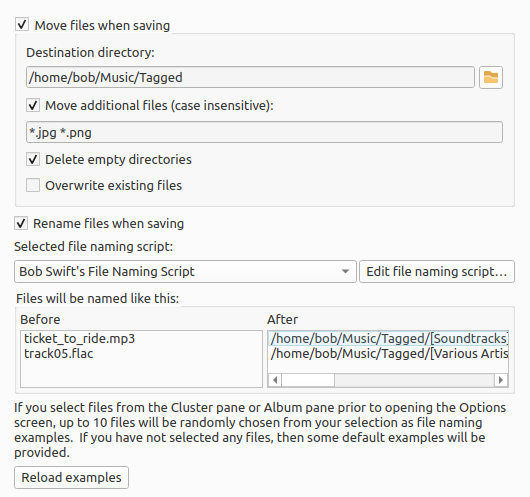
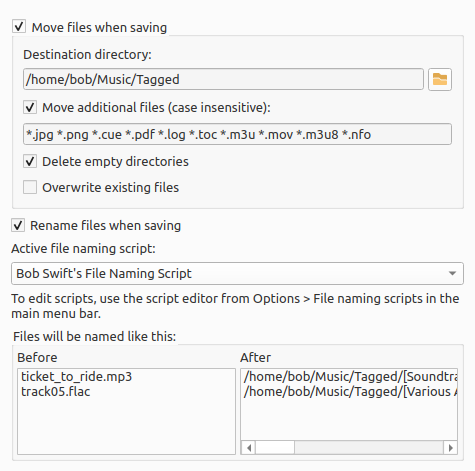
Restructure options pages to match revisions in Picard

Changed region(s): [[0.0, 0.0297, 0.9726, 1.0], [0.6484, 0.535, 0.9726, 0.5945]]

diff --git a/config/options_matching.rst b/config/options_matching.rst
@@ -16,22 +16,34 @@ It is recommended for most users to leave these settings at their default values
       :width: 75%
       :align: center
 
-**Minimal similarity for file lookups**
+**Minimum similarity**
 
-   The higher the percentage value, the more similar an individual file's metadata must be to the metadata from MusicBrainz for it to be matched to a release on the right-hand side.
+   This setting determines the minimum match between a cluster and a release on MusicBrainz for the release to be considered and presented as a possible match. Matches below this threshhold will be ignored.
 
-   This setting is used when you do a lookup on individual files. The files' metadata is compared to the recordings found on MusicBrainz. If the similarity is below the threshold the recording is ignored completely.
+**Minimum margin between best and second-best match**
 
-**Minimal similarity for cluster lookups**
-
-   The higher the percentage value, the more similar a cluster of files from the left-hand pane must be to a MusicBrainz release for the entire cluster to be matched to a release on the right-hand side.
+   This setting determines the similarity difference to prefer one match over another. When Picard matches a file to tracks, it scores each candidate track by similarity. If the gap between the top two or more scores is less than this margin, the match is flagged as ambiguous, because the gap isn't enough to be certain which one is the best. In this case, you must verify the track selection.
 
 **Minimal similarity for matching files to tracks**
 
-   The higher the percentage value, the more similar an individual file's metadata must be to the metadata from MusicBrainz for it to be matched to a release on the right-hand side.
+   The higher the percentage value, the more similar an individual file's metadata must be to the metadata from MusicBrainz for it to be matched to a track on a release in the Album pane.
 
-   This setting is used when a file is assigned to a release and Picard needs to decide which track to assign it to. This happens on cluster lookup after the release has been chosen, or if you manually drag files onto a loaded release (as opposed to dragging it onto a track directly). If none of the tracks gives a match above the threshold the file is moved into an "unmatched files" section on that release.
+   This setting is used when a file is assigned to a release and Picard needs to decide which track to which it is assigned. This happens on cluster lookup after the release has been chosen, or if you manually drag files onto a loaded release (as opposed to dragging it onto a track directly). If none of the tracks gives a match above the threshold the file is moved into an "unmatched files" section on that release.
 
-If you have absolutely no metadata in your current files, and you are using "Scan" to match tracks, you may find that you need to lower the value of "Minimal similarity for matching files to tracks" in order for Picard to match the files within a release. Otherwise you may find that Picard matches the track to a release but then is not sure which track is correct; and leaves it in an "unmatched files" group within that release.
+   If you have absolutely no metadata in your current files, and you are using "Scan" to match tracks, you may find that you need to lower the value of "Minimal similarity for matching files to tracks" in order for Picard to match the files within a release. Otherwise you may find that Picard matches the track to a release but then is not sure which track is correct; and leaves it in an "unmatched files" group within that release.
 
-As a general rule, lowering the percentages may increase the chance of finding a match at the risk of false positives and incorrect matches.
+.. note::
+
+   As a general rule, lowering the percentages may increase the chance of finding a match at the risk of false positives and incorrect matches.
+
+**Ignore track duration difference under this number of seconds**
+
+   This specifies the number of seconds that a file can differ in length from the length in the MusicBrainz database and still be considered to be the same. The default value is 2 seconds.
+
+**Ignore the following tracks when determining whether a release is complete**
+
+   Missing tracks of the selected type (i.e.: video, pregap, data or silence) will be ignored when determining whether a release is considered to be complete. For example, if "video" is selected then a release with a bonus video will be marked as complete if it has all the audio tracks matched with a file even if the video file is missing.
+
+**Tags to ignore for comparison**
+
+   Tags in this list will not be considered when comparing the existing file metadata to the data retrieved from MusicBrainz. If the only difference between the file's metadata and the metadata retrieved from MusicBrainz is a tag listed in this ignore list then the file will be considered unmodified.

diff --git a/config/options_general.rst b/config/options_general.rst
@@ -35,33 +35,9 @@
 
    The port number for the server. Default value: 443 (for the main MusicBrainz server).
 
-**Username**
-
-   Your MusicBrainz website username, used to submit acoustic fingerprints, retrieve and save items to your collections, and retrieve personal folksonomy tags.
-
-**Password**
-
-   Your MusicBrainz website password.
-
 **Enable managing user collections**
 
    This option allows you to partially manage your MusicBrainz collections from within Picard. It provides a context (right-click) menu item for each album in the Album pane to display your collections and whether or not the album belongs to a collection. It will also automatically add any new albums to your collections when the album is saved. See the `Collections <https://musicbrainz.org/doc/Collections>`_ documentation on the MusicBrainz website for additional information regarding collections.
-
-**Automatically scan all new files**
-
-   Check this box if you want Picard to scan each music file you add and look for an :index:`AcoustID <pair: AcoustID; automatic scan>` fingerprint. This takes time, but may be helpful for you and MusicBrainz. Leave it unchecked if you don't want Picard to do this scan automatically. In any case, you can direct Picard to scan a particular music file at any time using :menuselection:`"Tools --> Scan"`. See also :ref:`Scan Files <ref_scan_files>` and :ref:`ref_tutorial_acoustid`.
-
-**Automatically cluster all new files**
-
-   Check this box if you want Picard to automatically group all loaded files into album :index:`clusters <pair: cluster; automatic clustering>`. Leave it unchecked if you don't want Picard to do this automatically. In any case, you can direct Picard to cluster files any time using :menuselection:`"Tools --> Cluster"`. See also :ref:`Lookup Files <ref_lookup_files>`.
-
-.. note::
-
-   You can either enable "Automatically scan all new files" or "Automatically cluster all new files", but not both.
-
-**Ignore MBIDs when loading new files**
-
-   If you enable this option Picard will not use MusicBrainz identifiers (MBIDs) stored in the files to automatically load the corresponding MusicBrainz release and match the loaded file to the correct track. Leaving this option disabled is useful when re-processing files that have been previously tagged with incorrect information.
 
 **Remove complete albums after saving**
 
@@ -69,13 +45,9 @@
 
    Albums will be removed only after files have been matched to all tracks on the album, and all files in the album have been saved.
 
-.. only:: html and not epub
-
-   .. seealso::
-
-      Please see :doc:`options_startup` for options related to checking for updates and log level at startup.
-
 .. toctree::
    :hidden:
 
    options_startup
+   options_network
+   options_player

diff --git a/config/options_lookup.rst b/config/options_lookup.rst
@@ -1,0 +1,50 @@
+.. MusicBrainz Picard Documentation Project
+
+:index:`Lookup Options <configuration; lookup options>`
+=========================================================
+
+.. only:: not latex
+
+   .. image:: images/options-lookup.png
+      :align: center
+
+.. only:: latex
+
+   .. image:: images/options-lookup.png
+      :width: 70%
+      :align: center
+
+**Automatically scan all new files**
+
+   Check this box if you want Picard to scan each music file you add and look for an :index:`AcoustID <pair: AcoustID; automatic scan>` fingerprint. This takes time, but may be helpful for you and MusicBrainz. Leave it unchecked if you don't want Picard to do this scan automatically. In any case, you can direct Picard to scan a particular music file at any time using :menuselection:`"Tools --> Scan"`. See also :ref:`Scan Files <ref_scan_files>` and :ref:`ref_tutorial_acoustid`.
+
+**Automatically cluster all new files**
+
+   Check this box if you want Picard to automatically group all loaded files into album :index:`clusters <pair: cluster; automatic clustering>`. Leave it unchecked if you don't want Picard to do this automatically. In any case, you can direct Picard to cluster files any time using :menuselection:`"Tools --> Cluster"`. See also :ref:`Lookup Files <ref_lookup_files>`.
+
+.. note::
+
+   You can either enable "Automatically scan all new files" or "Automatically cluster all new files", but not both.
+
+**Ignore MBIDs when loading new files**
+
+   If you enable this option Picard will not use MusicBrainz identifiers (MBIDs) stored in the files to automatically load the corresponding MusicBrainz release and match the loaded file to the correct track. Leaving this option disabled is useful when re-processing files that have been previously tagged with incorrect information.
+
+**Maximum number of entities to return per MusicBrainz query**
+
+   This sets the maximum number of results returned for queries made to the MusicBrainz website. The default value is 50 results. On Picard v2.8.1 and earlier, this value was fixed at a maximum of 25 responses.
+
+**Use builtin search rather than looking in browser**
+
+   If you enable this option, Picard will use its own search system rather than using the browser for searching the MusicBrainz database.
+
+**Use advanced query syntax**
+
+   When this option is enabled, searches will be performed using the advanced query syntax rather than the simple query syntax.
+
+
+.. toctree::
+   :hidden:
+
+   options_cdlookup
+   options_fingerprinting

diff --git a/config/configuration.rst b/config/configuration.rst
@@ -34,24 +34,6 @@ The screen setup is found under the :menuselection:`"View"` item on the menu bar
 
 .. _action_options:
 
-:index:`Action Options <configuration; action options>`
--------------------------------------------------------
-
-The action options are found under the :menuselection:`"Options"` item on the menu bar. There are three available actions that Picard can perform when saving selected music files:
-
-**Rename Files**
-
-   Picard will rename each file in accordance with the naming script.
-
-**Move Files**
-
-   Picard will move files to the target directory in accordance with the naming script.
-
-**Save Tags**
-
-   Picard will update the metadata tags in the files in accordance with the specified option settings and tagging scripts.
-
-
 :index:`Option Settings <see: option settings; configuration>`
 ---------------------------------------------------------------
 
@@ -82,18 +64,16 @@ Changes made to a profile's options settings, enabled status, or position in the
    .. toctree::
 
       options_general
-      options_profiles
       options_metadata
+      options_lookup
       options_tags
       options_cover
       options_filerenaming
-      options_fingerprinting
-      options_cdlookup
       options_plugins
       options_scripting
       options_interface
-      options_player
       options_advanced
+      options_profiles
 
 
 .. only:: html and not epub
@@ -101,15 +81,13 @@ Changes made to a profile's options settings, enabled status, or position in the
    .. seealso::
 
       :doc:`options_general` /
-      :doc:`options_profiles` /
       :doc:`options_metadata` /
+      :doc:`options_lookup` /
       :doc:`options_tags` /
       :doc:`options_cover` /
       :doc:`options_filerenaming` /
-      :doc:`options_fingerprinting` /
-      :doc:`options_cdlookup` /
       :doc:`options_plugins` /
       :doc:`options_scripting` /
       :doc:`options_interface` /
-      :doc:`options_player` /
-      :doc:`options_advanced`
+      :doc:`options_advanced` /
+      :doc:`options_profiles`

diff --git a/config/options_advanced.rst b/config/options_advanced.rst
@@ -28,28 +28,12 @@ This provides access to some of the advanced settings for Picard.
 
    If this option is enabled Picard will load all audio files in the selected directory and all its subdirectories. If disabled only audio files in the selected directory will be loaded.
 
-**Ignore track duration difference under this number of seconds**
-
-   This specifies the number of seconds that a file can differ in length from the length in the MusicBrainz database and still be considered to be the same. The default value is 2 seconds.
-
-**Maximum number of entities to return per MusicBrainz query**
-
-   This sets the maximum number of results returned for queries made to the MusicBrainz website. The default value is 50 results. On Picard v2.8.1 and earlier, this value was fixed at a maximum of 25 responses.
-
-**Ignore the following tracks when determining whether a release is complete**
-
-   Missing tracks of the selected type (i.e.: video, pregap, data or silence) will be ignored when determining whether a release is considered to be complete. For example, if "video" is selected then a release with a bonus video will be marked as complete if it has all the audio tracks matched with a file even if the video file is missing.
-
-**Tags to ignore for comparison**
-
-   Tags in this list will not be considered when comparing the existing file metadata to the data retrieved from MusicBrainz. If the only difference between the file's metadata and the metadata retrieved from MusicBrainz is a tag listed in this ignore list then the file will be considered unmodified.
 
 .. only:: html and not epub
 
    .. seealso::
 
       Details:
-      :doc:`options_network` /
       :doc:`options_matching` /
       :doc:`options_sessions` /
       :doc:`options_maintenance`
@@ -57,7 +41,6 @@ This provides access to some of the advanced settings for Picard.
 .. toctree::
    :hidden:
 
-   options_network
    options_matching
    options_sessions
    options_maintenance

diff --git a/config/options_interface.rst b/config/options_interface.rst
@@ -48,14 +48,6 @@
 
       When enabling the multiple directories option setting Picard will no longer use the system file picker for selecting directories. This may result in reduced functionality.
 
-**Use built-in search rather than looking in browser**
-
-   When this option is enabled the search for albums, artists or tracks will show the results in a dialog. By default this option is enabled. If this option is disabled Picard will open a search on MusicBrainz.org in your default web browser.
-
-**Use advanced query syntax**
-
-   This will enable advanced query syntax parsing on your searches. This only applies to the search box at the top right of Picard, not the lookup buttons.
-
 **Show the new user dialog when starting Picard**
 
    When this is enabled, Picard will show a dialog intended for new users when you start the program. This displays a warning about the consequences of saving files, along with a suggestion for minimizing the impact until you have confirmed that your configuration produces the expected results. It also provides a link to the on-line documentation.
@@ -87,8 +79,8 @@
       Details:
       :doc:`options_interface_colors` /
       :doc:`options_interface_top_tags` /
-      :doc:`options_interface_coverart_box` /
       :doc:`options_interface_quick_menu` /
+      :doc:`options_interface_coverart_box` /
       :doc:`options_interface_toolbar`
 
 .. toctree::
@@ -96,6 +88,6 @@
 
    options_interface_colors
    options_interface_top_tags
-   options_interface_coverart_box
    options_interface_quick_menu
+   options_interface_coverart_box
    options_interface_toolbar

diff --git a/config/options_filerenaming.rst b/config/options_filerenaming.rst
@@ -73,8 +73,6 @@ These options determine how Picard handles files when they are saved with update
 
    Below the file naming script selector is a section showing examples of the output of the script in two columns: Before and After. If you select files from the Cluster pane or Album pane prior to opening the Options screen, up to 10 files will be randomly chosen from your selection as file naming examples. If you have not selected any files, then some default examples will be provided.
 
-   You can change the randomly selected example files from your selected files list by clicking on the :guilabel:`Reload examples` button.
-
 .. note::
 
    Any new tags set or tags modified by the file naming script will not be written to the output files' metadata.
